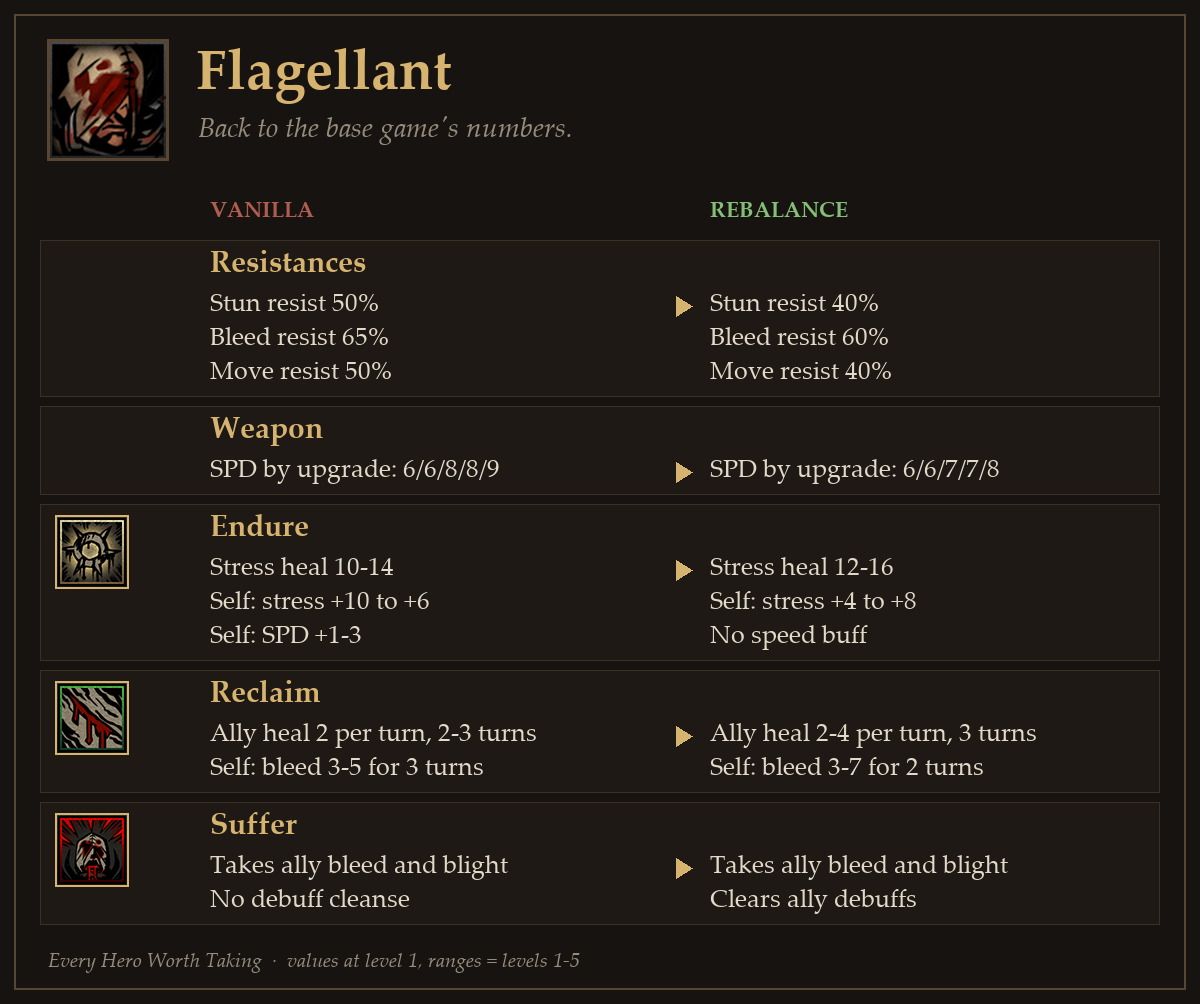
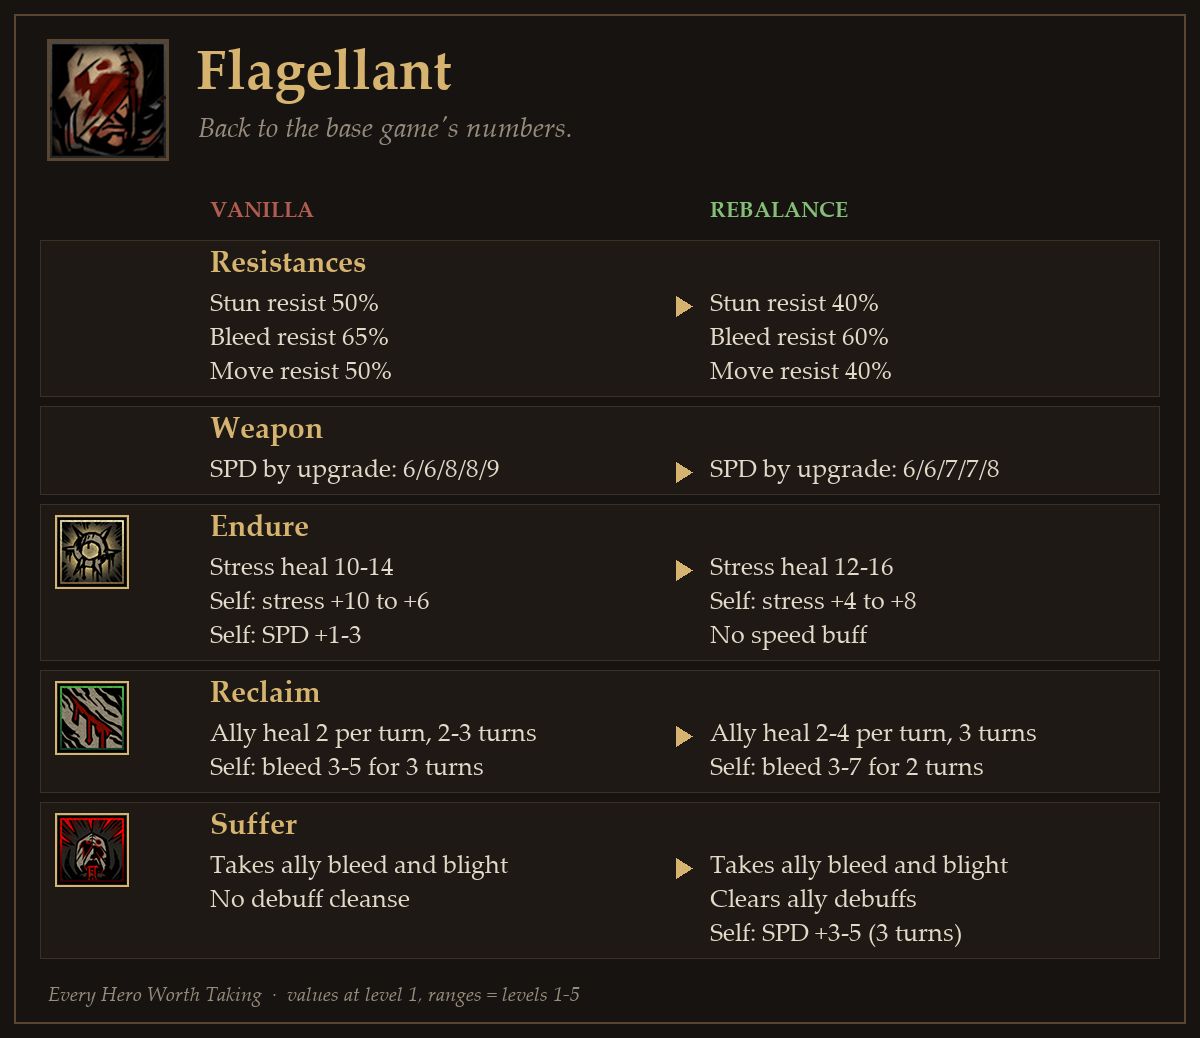
FLA-013 Suffer: self speed +3/3/4/4/5 for 3 turns

diff --git a/design/workshop/patch_notes_ko.md b/design/workshop/patch_notes_ko.md
@@ -53,7 +53,7 @@
 - **무기**: 무기 spd 6 / 6 / 8 / 8 / 9 → 6 / 6 / 7 / 7 / 8 — 거의 모든 영웅은 무기 레벨에 따라 속도가 +0/+0/+1/+1/+2로 오르는데 고행자만 더 크게 올랐습니다. 같은 성장 규칙에 맞췄습니다. *(R-GROW-03, G-04 / FLA-007)*
 - **재기**: 1렙 회복 2×2턴; 자신: 출혈 3×3턴 (120%) … 5렙 자신: 출혈 5×3턴 (160%) → 1렙 회복 2×3턴; 자신: 출혈 3×2턴 (120%) … 5렙 자신: 출혈 7×2턴 (160%) — 재기의 자해 출혈은 고행자가 스스로 체력 40%를 만들어 구제·방혈을 여는 장치라, 3턴 대신 2턴에 몰아 더 빨리 40%에 닿게 했고 레벨마다 1씩(3~7) 오릅니다. 회복은 모든 레벨 3턴 지속에 원작 회복량을 씁니다. 출혈 저항 장신구를 끼면 여전히 순수 회복기로 쓸 수 있습니다. *(P-19, G-05 / FLA-010)*
 - **인내**: 1렙 스트레스 회복 10; 자신: 스트레스 +10; 자신: 속도 +1 … 5렙 스트레스 회복 14; 자신: 스트레스 +6; 자신: 속도 +3 → 1렙 스트레스 회복 12; 자신: 스트레스 +4 … 5렙 스트레스 회복 16; 자신: 스트레스 +8 — 인내는 이제 순수 스트레스 회복 기술입니다. 자기 속도 버프를 빼는 대신 회복량을 올려, 자기 스트레스를 빼고도 모든 레벨에서 8씩 회복합니다. 1레벨부터 쓸 만합니다. *(G-05, P-06 / FLA-008, FLA-009, FLA-011)*
-- **고통**: 추가: 약화 해제 — 고통은 아군의 고통을 대신 짊어지는 기술입니다. 원래 출혈·중독을 가져왔는데, 이제 나머지 약화도 걷어내서 어느 열에서든 아군을 정화합니다. *(P-19, G-05 / FLA-012)*
+- **고통**: 추가: 1렙 약화 해제; 자신: 속도 +3 3턴 … 5렙 약화 해제; 자신: 속도 +5 3턴 — 고통은 아군의 고통을 대신 짊어지는 기술입니다. 원래 출혈·중독을 가져왔는데, 이제 나머지 약화도 걷어내고 자기 속도를 올려(3턴 +3~5), 가져온 피해로 체력이 내려갔을 때 구제·방혈을 먼저 쓸 수 있게 했습니다. *(P-19, G-05 / FLA-012, FLA-013)*
 
 ## 도굴꾼
 

diff --git a/design/workshop/patch_notes_en.md b/design/workshop/patch_notes_en.md
@@ -53,7 +53,7 @@ Each entry: what changed (generated from the game data) — why (principle IDs f
 - **Weapon**: Weapon spd 6 / 6 / 8 / 8 / 9 → 6 / 6 / 7 / 7 / 8 — Nearly every hero gains speed +0/+0/+1/+1/+2 across weapon upgrades; the Flagellant's bigger jumps were an outlier, so his growth now follows the same rule. *(R-GROW-03, G-04 / FLA-007)*
 - **Reclaim**: Lv1 heal 2×2t; self: bleed 3×3t (120%) … Lv5 self: bleed 5×3t (160%) → Lv1 heal 2×3t; self: bleed 3×2t (120%) … Lv5 self: bleed 7×2t (160%) — Reclaim's self-bleed is how the Flagellant drops himself to 40% HP for Redeem and Exsanguinate, so it now bleeds over 2 turns instead of 3 and gets him there sooner, growing every level (3-7). The heal lasts 3 turns at every level with the base game's amounts. Bleed-resist trinkets still let you run it as a pure healer. *(P-19, G-05 / FLA-010)*
 - **Endure**: Lv1 stress heal 10; self: stress +10; self: speed +1 … Lv5 stress heal 14; self: stress +6; self: speed +3 → Lv1 stress heal 12; self: stress +4 … Lv5 stress heal 16; self: stress +8 — Endure is now a pure stress heal: the self speed buff is gone and the heal is higher instead. After his own stress cost it relieves a steady 8 stress at every level, so it is useful from level 1. *(G-05, P-06 / FLA-008, FLA-009, FLA-011)*
-- **Suffer**: Added: clear debuffs — Suffer means taking an ally's pain onto himself. It already took their bleed and blight; now it also clears their other debuffs, which makes the Flagellant an ally cleanser from any rank. *(P-19, G-05 / FLA-012)*
+- **Suffer**: Added: Lv1 clear debuffs; self: speed +3 3t … Lv5 clear debuffs; self: speed +5 3t — Suffer means taking an ally's pain onto himself. It already took their bleed and blight; now it also clears their other debuffs, and it speeds him up (+3 to +5 for 3 turns) so that, once the stolen damage drops him low, he can act early with Redeem or Exsanguinate. *(P-19, G-05 / FLA-012, FLA-013)*
 
 ## Grave Robber
 
